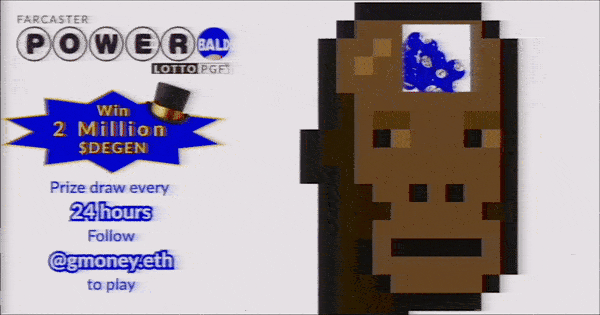
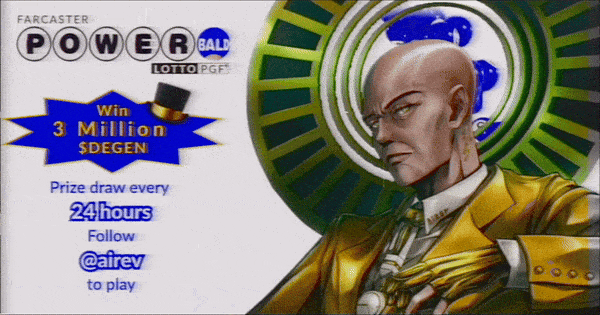
airev sponsor

diff --git a/app/config.ts b/app/config.ts
@@ -5,13 +5,13 @@ import {
   type Hex,
   type PublicClient,
 } from "viem";
-import { base, baseSepolia } from "viem/chains";
+import { base } from "viem/chains";
 
 export const PICK_AMOUNT = 5;
 export const MAXIMUM_NUMBER = 25;
 
-export const FOLLOW_ACCOUNT_FID = 9410;
-export const FOLLOW_ACCOUNT_USERNAME = "gmoney.eth";
+export const FOLLOW_ACCOUNT_FID = 212350;
+export const FOLLOW_ACCOUNT_USERNAME = "airev";
 
 export const BONUS_ROUND = 9n; // Bonus tickets for this round!
 

diff --git a/app/Powerbald.tsx b/app/Powerbald.tsx
@@ -239,6 +239,13 @@ function Jackpot({ gameId }: { gameId: bigint | undefined }) {
           className="underline hover:no-underline"
         >
           @{FOLLOW_ACCOUNT_USERNAME}
+        </Link>
+        ,{" "}
+        <Link
+          href={`https://warpcast.com/gmoney.eth`}
+          className="underline hover:no-underline"
+        >
+          @gmoney.eth
         </Link>{" "}
         and{" "}
         <Link

diff --git a/app/Frame.tsx b/app/Frame.tsx
@@ -382,7 +382,9 @@ export async function Frame({
         previousFrame={previousFrame}
         pathname="/"
       >
-        <FrameImage src={`${HOST}/frames/initial.gif?c=punkape`} />
+        <FrameImage
+          src={`${HOST}/frames/initial.gif?c=${FOLLOW_ACCOUNT_USERNAME}`}
+        />
         <FrameButton>🔵 🎰 🌟 Claim free ticket 🌟 🎰 🔵</FrameButton>
       </FrameContainer>
     );
